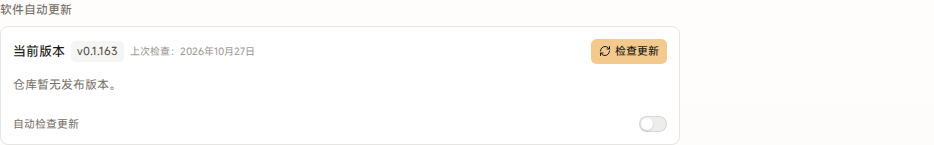
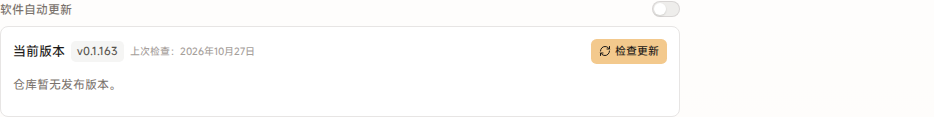
feat(wave-52): 契约v2——开关移至「软件自动更新」标题行最右端，移除方框内自动检查行

diff --git a/src/components/config/ConfigGeneralSection.vue b/src/components/config/ConfigGeneralSection.vue
@@ -252,7 +252,18 @@ async function toggleAgentTraceReporting(enabled: boolean) {
 
       <!-- PA-099：软件更新卡片（GitHub 发版检测 + 发布页跳转 + 自动检查开关）。 -->
       <div class="space-y-2" data-testid="config-update-section">
-        <div class="text-[12px] font-medium text-stone-500" data-testid="config-update-section-title">软件自动更新</div>
+        <div
+          class="flex w-[680px] max-w-full items-center justify-between gap-2"
+          data-testid="config-update-header-row"
+        >
+          <div class="text-[12px] font-medium text-stone-500" data-testid="config-update-section-title">软件自动更新</div>
+          <Switch
+            aria-label="软件自动更新"
+            :model-value="updateStore.autoCheck"
+            data-testid="config-update-autocheck-switch"
+            @update:model-value="updateStore.setAutoCheck($event)"
+          />
+        </div>
         <div class="max-w-[680px] space-y-2.5 rounded-[0.5rem] border border-stone-200 bg-white px-3 py-3">
           <div class="flex items-center justify-between gap-2" data-testid="config-update-version-row">
             <div class="flex min-w-0 items-center gap-1.5 text-[13px] font-medium text-stone-900">
@@ -361,19 +372,6 @@ async function toggleAgentTraceReporting(enabled: boolean) {
           <div v-if="updateStore.signedStatus === 'relaunch-failed'" class="text-[12px] text-rose-600" data-testid="config-update-relaunch-failed">更新已提交，但重启失败，请手动重启应用。</div>
           <div v-if="updateStore.signedStatus === 'error'" class="text-[12px] text-rose-600" data-testid="config-update-signed-error">
             {{ updateStore.signedErrorMessage || "签名更新失败，请稍后重试。" }}
-          </div>
-
-          <div class="flex items-center justify-between gap-2 pt-0.5" data-testid="config-update-autocheck-row">
-            <label
-              class="cursor-pointer text-[11px] text-stone-500"
-              for="config-update-autocheck-toggle"
-            >自动检查更新</label>
-            <Switch
-              id="config-update-autocheck-toggle"
-              :model-value="updateStore.autoCheck"
-              data-testid="config-update-autocheck-switch"
-              @update:model-value="updateStore.setAutoCheck($event)"
-            />
           </div>
         </div>
       </div>

diff --git a/.dev-team/wave52-receipts.md b/.dev-team/wave52-receipts.md
@@ -47,3 +47,13 @@
 - 操作闭环：打开首页 → 左栏「设置」→ 滚动到卡片 → 真实点击「检查更新」（真实 api.github.com 响应）→ 真实点击 Switch
 - 断言（agent-browser 快照/属性读取）：标题文本 = `软件自动更新`；`config-update-status` = `当前已是最新版本。`；`config-update-last-checked` = `上次检查：2026年10月27日`；Switch `aria-checked: false → true`（点击可切换）
 - 证据（入仓）：`.dev-team/evidence/wave-52/dev-server-update-section.png`（未检查/已检查态）、`.dev-team/evidence/wave-52/dev-server-update-section-switch-on.png`（Switch 开启态，位于行最右端）
+
+## 7. 契约 v2 修订（用户反馈驱动，2026-10-27 19:2x）
+
+用户反馈：「开关应该是 section『软件自动更新』同行最右端，方框内不应该再有『自动检查更新』」。
+
+- 契约演进：C2 改为「section 标题行最右端」（新增行锚点 `config-update-header-row`）；新增 C2b（方框内不得再有该文案、section 内 Switch 恰为 1 个）；C5 改为 Switch 自持 `aria-label="软件自动更新"`。
+- 红相重锚：commit `f127a33` —— 单元 3 红（C2 缺标题行 / C2b 旧文案仍在 / C3 反向断言），浏览器 4 红（C2 缺锚点、C2b、C3、C5 可及名）。
+- 绿相（v2）：`npm run build` exit 0；`npx vitest run` **108 文件 / 1061 passed / 12 skipped**（+1 用例：C2b）；`npx playwright test tests/e2e/wave52-update-card-layout.spec.ts --retries=0` **6/6 passed**（C1/C2/C2b/C3/C5/C6，Console Error = 0）。
+- Dev 真实环境复验（vite dev 4176，真实 GitHub 检查）：标题行「软件自动更新」+ Switch 最右端、方框内已无「自动检查更新」、`上次检查：2026年10月27日` 紧邻 `v0.1.163`。证据：`.dev-team/evidence/wave-52/dev-server-v2-update-section.png`。
+- 实现偏离（Lead 裁决接受）：标题行用 `w-[680px] max-w-full` 而非字面 `max-w-[680px]`，以免与冻结 e2e 的 `locator("div.max-w-\\[680px\\]")` 在 strict mode 下撞车；容器 ≥680px 时右边缘等价（1280/780 实测差 0px）。**登记技术债**：e2e 以 Tailwind class 定位方框属脆弱写法，后续应为卡片加 `data-testid="config-update-card"` 并改用它。
